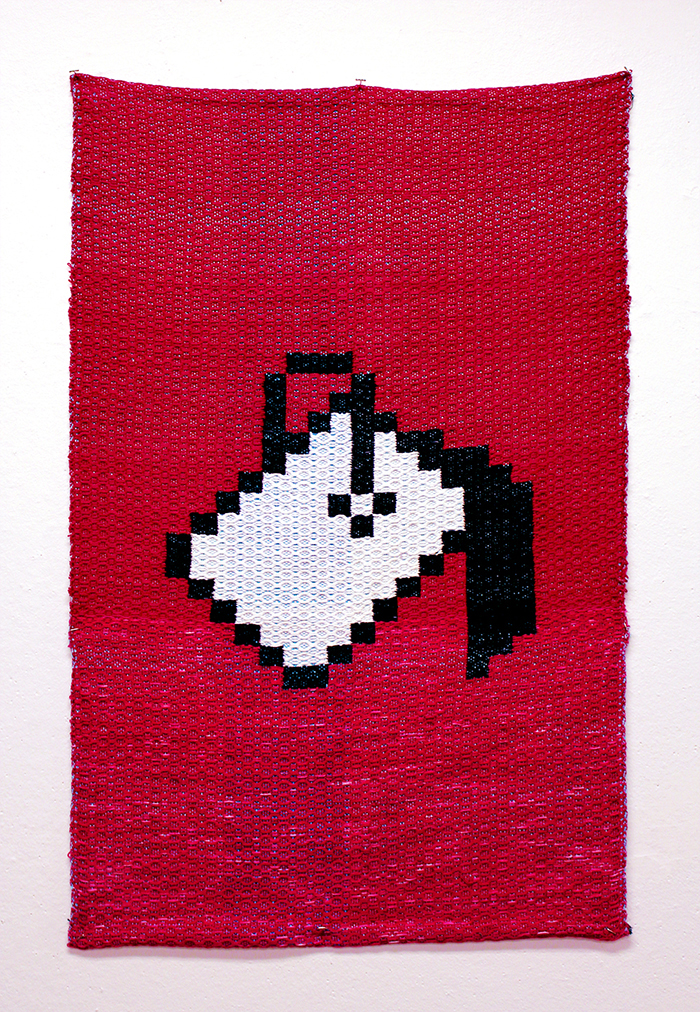
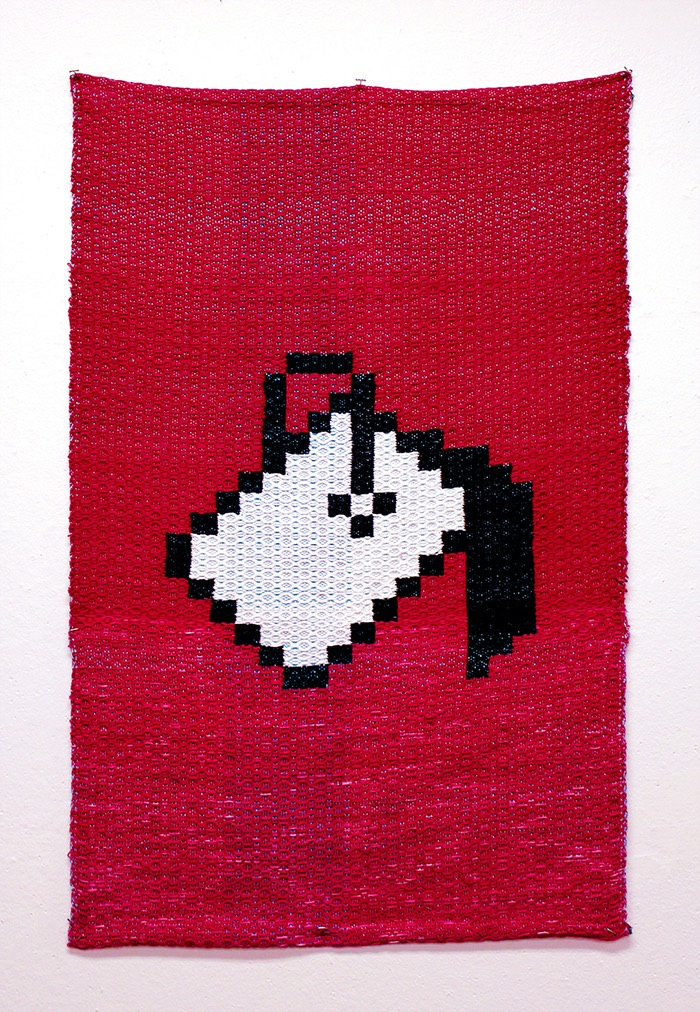
work updates

Changed region(s): [[0.09, 0.0613, 0.9, 0.9496]]

diff --git a/source/src/view/Work.vue b/source/src/view/Work.vue
@@ -18,7 +18,7 @@
 
             <button id="daisy-bell" class="work__app" @click="toggle">
               <img 
-                src="../assets/images/work/daisybell1.png"
+                src="../assets/images/work/daisybell1.jpg"
                 alt="daisy bell" 
                 class="work__app__img">
             </button>
@@ -90,9 +90,9 @@
         <span>2018, crochet and ebook</span><br><br>
         &nbsp;&nbsp;&nbsp;&nbsp;&nbsp;&nbsp;&nbsp;&nbsp;&nbsp;&nbsp;&nbsp;&nbsp;&nbsp;<a href="//drive.google.com/file/d/1e0Jpiy0VY_nRIMv5lNxpRv3S8MKNNMP4/view?usp=sharing" target="_blank" class="inline-link inline-link--light"><span>˗ˋ⊹link to ebook⊹ˊ˗</span></a>
       </div>
-      <img src="../assets/images/work/softcomputers_appleiie.jpg" alt="crochet of the Apple IIe computer">
-      <img src="../assets/images/work/softcomputers_booklet1.jpg" alt="Booklet pages 1 and 2">
-      <img src="../assets/images/work/softcomputers_booklet2.jpg" alt="Booklet pages 1 and 2">
+      <img src="../assets/images/work/softcomputers_appleiie.jpg" alt="crochet of the Apple IIe computer" class="half half--left">
+      <img src="../assets/images/work/softcomputers_booklet1.jpg" alt="Booklet pages 1 and 2" class="half half--right">
+      <img src="../assets/images/work/softcomputers_booklet2.jpg" alt="Booklet pages 3 and 4">
     </div>
   </dialog>
 
@@ -114,7 +114,7 @@
       </div>
       <img src="../assets/images/work/daisybellbfa.jpg" alt="Daisy Bell install">
       <br>
-      <img src="../assets/images/work/daisybell1.png" alt="Daisy Bell closeup">
+      <img src="../assets/images/work/daisybell1.jpg" alt="Daisy Bell closeup">
     </div>
   </dialog>
 

diff --git a/source/src/assets/scss/components/modal.scss b/source/src/assets/scss/components/modal.scss
@@ -167,8 +167,7 @@
 
   img {
     display: block;
-    width: auto;
-    max-width: 100%;
+    width: 100%;
     height: auto;
     margin: 16px 0;
 
@@ -176,16 +175,28 @@
       display: inline-block;
       width: 48%;
 
+      @media (max-width: 500px) {
+        width: 100%;
+      }
+
       &--left {
         margin-top: 8px;
         margin-bottom: 8px;
         margin-right: 2%;
+
+        @media (max-width: 500px) {
+          margin-right: 0;
+        }
       }
 
       &--right {
         margin-top: 8px;
         margin-bottom: 8px;
         margin-left: 2%;
+
+        @media (max-width: 500px) {
+          margin-left: 0;
+        }
       }
     }
   }
